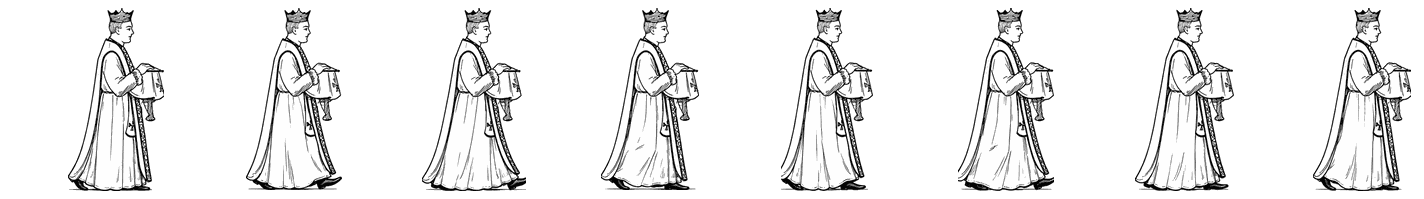
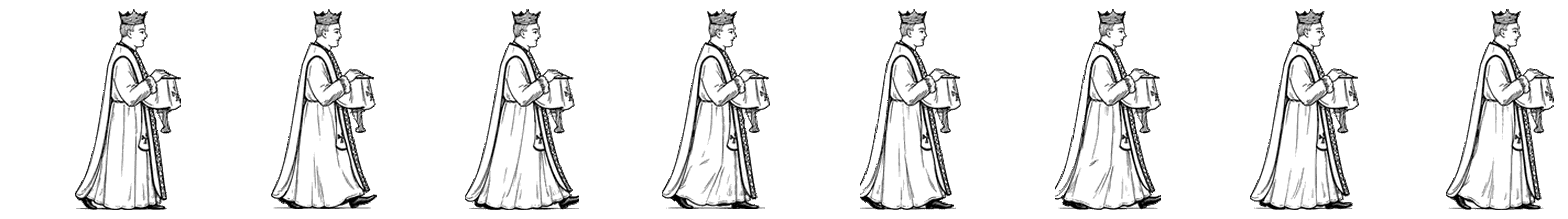
Adiciona boneco Diacono e amplia padre/diacono em 10%
Novo sprite diacono derivado da grade de animacao, nivelado pela cabeca
do padre (cranio, sem o barrete). Missa Solene refeita: diaconos entram
no Subdiacono, Diacono e Celebrante. Padre e diacono passam a aparecer
10% maiores que as demais figuras (quadro 196x219).

diff --git a/nav.js b/nav.js
@@ -42,7 +42,8 @@
 
   // Tira de sprites por personagem (largura x altura de um quadro, em px).
   var WALKER_DIMS = {
-    padre: [178, 199],
+    padre: [196, 219],
+    diacono: [196, 219],
     acolito: [162, 198],
     vela: [142, 223],
     cruz: [136, 229],
@@ -76,11 +77,11 @@
 
     // Missa Solene
     "missa-solene-acolitos.html": ["vela", "vela", "cruz", "turiferario"],
-    "missa-solene-turiferario.html": ["acolito", "vela", "vela", "cruz", "turiferario"],
-    "missa-solene-mc.html": ["acolito", "acolito", "vela", "vela", "cruz", "turiferario"],
-    "missa-solene-subdiacono.html": ["acolito", "acolito", "acolito", "vela", "vela", "cruz", "turiferario"],
-    "missa-solene-diacono.html": ["acolito", "acolito", "acolito", "acolito", "vela", "vela", "cruz", "turiferario"],
-    "missa-solene-celebrante.html": ["padre", "acolito", "acolito", "acolito", "acolito", "vela", "vela", "cruz", "turiferario"]
+    "missa-solene-turiferario.html": ["acolito", "acolito", "vela", "vela", "cruz", "turiferario"],
+    "missa-solene-mc.html": ["acolito", "acolito", "acolito", "vela", "vela", "cruz", "turiferario"],
+    "missa-solene-subdiacono.html": ["diacono", "acolito", "acolito", "acolito", "vela", "vela", "cruz", "turiferario"],
+    "missa-solene-diacono.html": ["diacono", "diacono", "acolito", "acolito", "acolito", "vela", "vela", "cruz", "turiferario"],
+    "missa-solene-celebrante.html": ["padre", "diacono", "diacono", "acolito", "acolito", "acolito", "vela", "vela", "cruz", "turiferario"]
   };
 
   function init() {

diff --git a/index.html b/index.html
@@ -64,6 +64,7 @@
           <span class="terminal-title">ultimas-atualizacoes.log</span>
         </div>
         <ul class="terminal-list">
+          <li><span class="terminal-date">[22/07/2026]</span> Novo boneco Diacono na procissao; Missa Solene ganha diaconos e o padre no fim</li>
           <li><span class="terminal-date">[22/07/2026]</span> Procissao refeita por bloco: cada missa tem sua propria fila, do mais simples ao mais completo</li>
           <li><span class="terminal-date">[22/07/2026]</span> Missa Cantada reordenada: Cruciferario, Tocheiro, Acolito 2, Acolito 1, Turiferario, Mc</li>
           <li><span class="terminal-date">[22/07/2026]</span> Desktop: home mais compacta, card dos resumos centralizado; risco vermelho e navbar somem ao rolar</li>